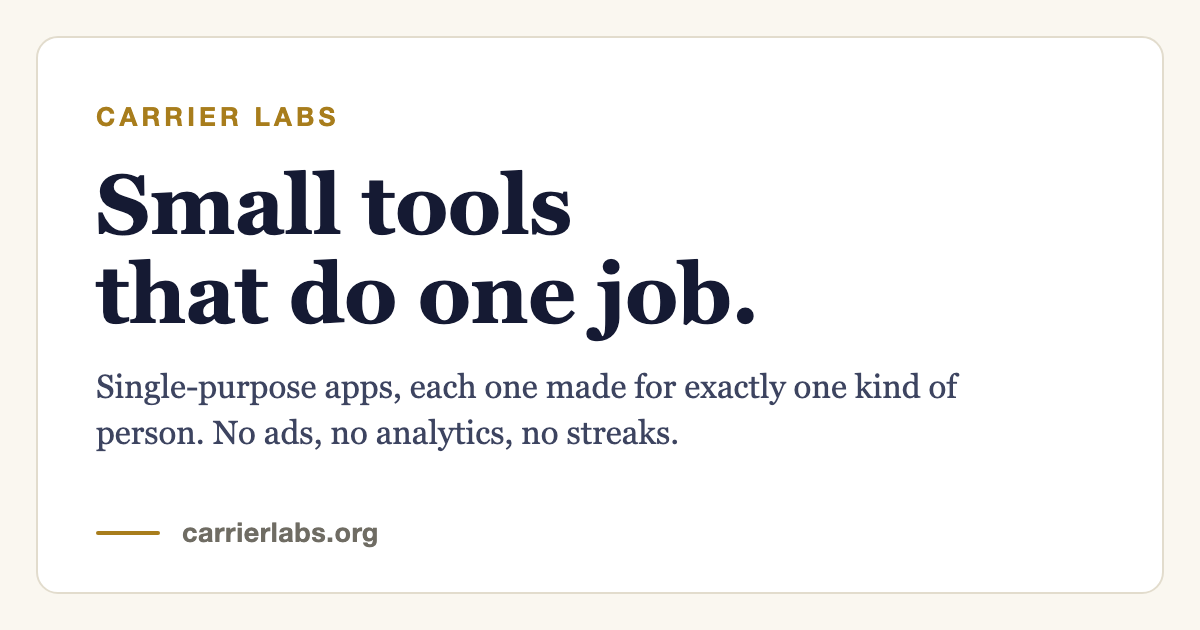
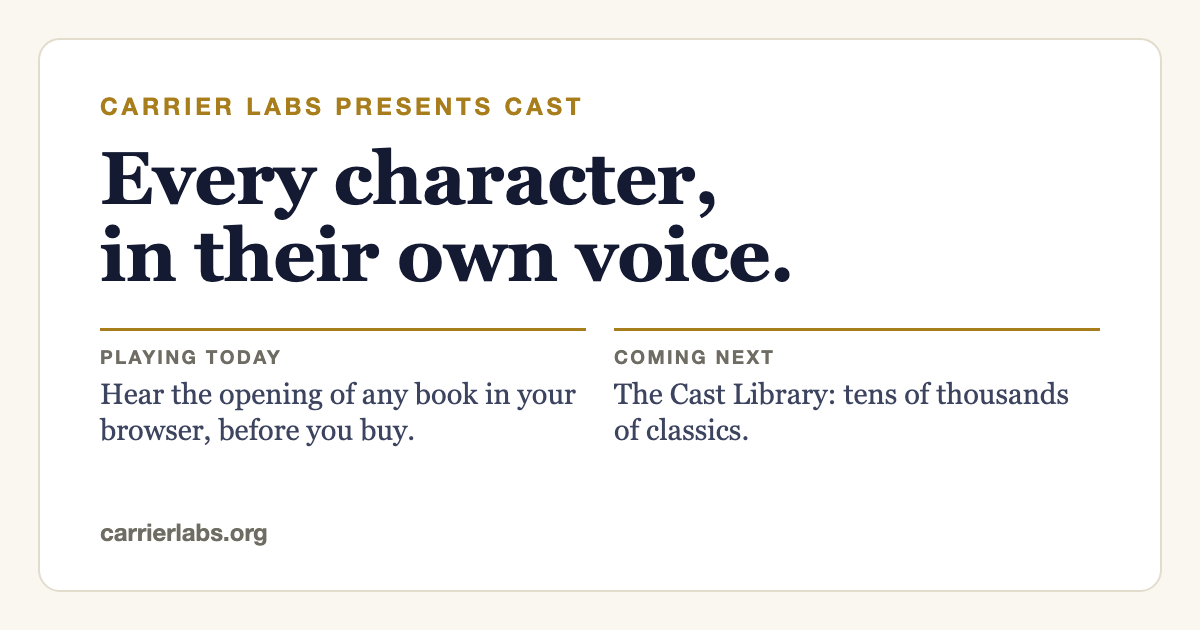
Share card: Cast, every character in their own voice, replacing "Small tools that do one job"; source kept in _og/ (author 2026-11-21)
Claude-Session: 7c9c2d30-6353-423d-a74d-9bf61e730dc6

diff --git a/index.html b/index.html
@@ -2,7 +2,7 @@
 <html lang="en"><head><meta charset="utf-8"><meta name="viewport" content="width=device-width,initial-scale=1">
 <title>Cast by Carrier Labs: Books Performed, a Voice for Each Character</title><meta name="description" content="Cast performs a book with a narrator and a voice for each character, made on your device. Coming next: the Cast Library, classics you search by any word.">
 <link rel="canonical" href="https://carrierlabs.org/"><meta property="og:title" content="Cast by Carrier Labs: Books Performed, a Voice for Each Character"><meta property="og:description" content="Cast performs a book with a narrator and a voice for each character, made on your device. Coming next: the Cast Library, classics you search by any word.">
-<meta property="og:url" content="https://carrierlabs.org/"><meta property="og:type" content="website"><meta property="og:image" content="https://carrierlabs.org/og-image.png"><meta property="og:image:width" content="1200"><meta property="og:image:height" content="630"><meta property="og:image:alt" content="Carrier Labs"><meta name="twitter:card" content="summary_large_image">
+<meta property="og:url" content="https://carrierlabs.org/"><meta property="og:type" content="website"><meta property="og:image" content="https://carrierlabs.org/og-image.png"><meta property="og:image:width" content="1200"><meta property="og:image:height" content="630"><meta property="og:image:alt" content="Carrier Labs presents Cast: every character, in their own voice. Hear the opening of any book in your browser, before you buy. Coming next: the Cast Library, tens of thousands of classics."><meta name="twitter:card" content="summary_large_image">
 <link rel="icon" href="favicon.png" type="image/png"><link rel="stylesheet" href="styles.css">
 <script type="application/ld+json">{"@context": "https://schema.org", "@type": "Organization", "@id": "https://carrierlabs.org/#organization", "name": "Carrier Labs", "legalName": "Carrier Labs LLC", "url": "https://carrierlabs.org/", "image": "https://carrierlabs.org/og-image.png", "description": "Carrier Labs LLC makes Cast, which performs books with a narrator and a voice for each character.", "address": {"@type": "PostalAddress", "addressLocality": "Diamondhead", "addressRegion": "MS", "addressCountry": "US"}, "parentOrganization": {"@type": "Organization", "name": "Carrier Ventures", "url": "https://carrierventures.org/"}}</script>
 <script type="application/ld+json">{"@context": "https://schema.org", "@type": "WebSite", "name": "Carrier Labs", "url": "https://carrierlabs.org/", "publisher": {"@id": "https://carrierlabs.org/#organization"}}</script>

diff --git a/_og/card.html b/_og/card.html
@@ -1,0 +1,27 @@
+<!doctype html>
+<!-- Source for ../og-image.png (1200x630). Not served: GitHub Pages skips _ folders.
+     Rebuild: see _og/README.md -->
+<html lang="en"><head><meta charset="utf-8">
+<style>
+:root{--ink:#151a33;--soft:#3d4460;--muted:#6f6c63;--paper:#faf7f0;--card:#fff;--line:#e2dccd;--gold:#a87d1c;
+--serif:Georgia,'Iowan Old Style',serif;--sans:'Helvetica Neue',Helvetica,Arial,sans-serif}
+*{box-sizing:border-box;margin:0}
+html,body{width:1200px;height:630px;background:var(--paper);overflow:hidden}
+.card{position:absolute;inset:38px;background:var(--card);border:2px solid var(--line);border-radius:22px;padding:54px 60px 46px;display:flex;flex-direction:column}
+.eyebrow{font:700 24px/1 var(--sans);letter-spacing:.16em;text-transform:uppercase;color:var(--gold)}
+h1{font:700 74px/1.04 var(--serif);color:var(--ink);margin:22px 0 0;letter-spacing:-.5px}
+.rows{display:grid;grid-template-columns:1fr 1fr;gap:28px;margin-top:34px}
+.row{border-top:3px solid var(--gold);padding-top:16px}
+.row b{display:block;font:700 19px/1 var(--sans);letter-spacing:.12em;text-transform:uppercase;color:var(--muted)}
+.row span{display:block;font:400 29px/1.25 var(--serif);color:var(--soft);margin-top:10px}
+.foot{margin-top:auto;font:700 24px/1 var(--sans);color:var(--muted)}
+</style></head>
+<body><div class="card">
+<div class="eyebrow">Carrier Labs presents Cast</div>
+<h1>Every character,<br>in their own voice.</h1>
+<div class="rows">
+<div class="row"><b>Playing today</b><span>Hear the opening of any book in your browser, before you buy.</span></div>
+<div class="row"><b>Coming next</b><span>The Cast Library: tens of thousands of classics.</span></div>
+</div>
+<div class="foot">carrierlabs.org</div>
+</div></body></html>

diff --git a/_og/README.md b/_og/README.md
@@ -1,0 +1,12 @@
+# Share card source
+
+`card.html` is the source for `../og-image.png` (1200x630, used for og:image and the Twitter card).
+GitHub Pages does not serve folders that start with `_`, so this stays private.
+
+Rebuild after editing `card.html`:
+
+    "/Applications/Google Chrome.app/Contents/MacOS/Google Chrome" --headless=new --disable-gpu \
+      --hide-scrollbars --force-device-scale-factor=1 --window-size=1200,630 \
+      --screenshot=og-image.png "file://$PWD/_og/card.html"
+
+Run from the repo root. Keep it in step with the homepage copy.
